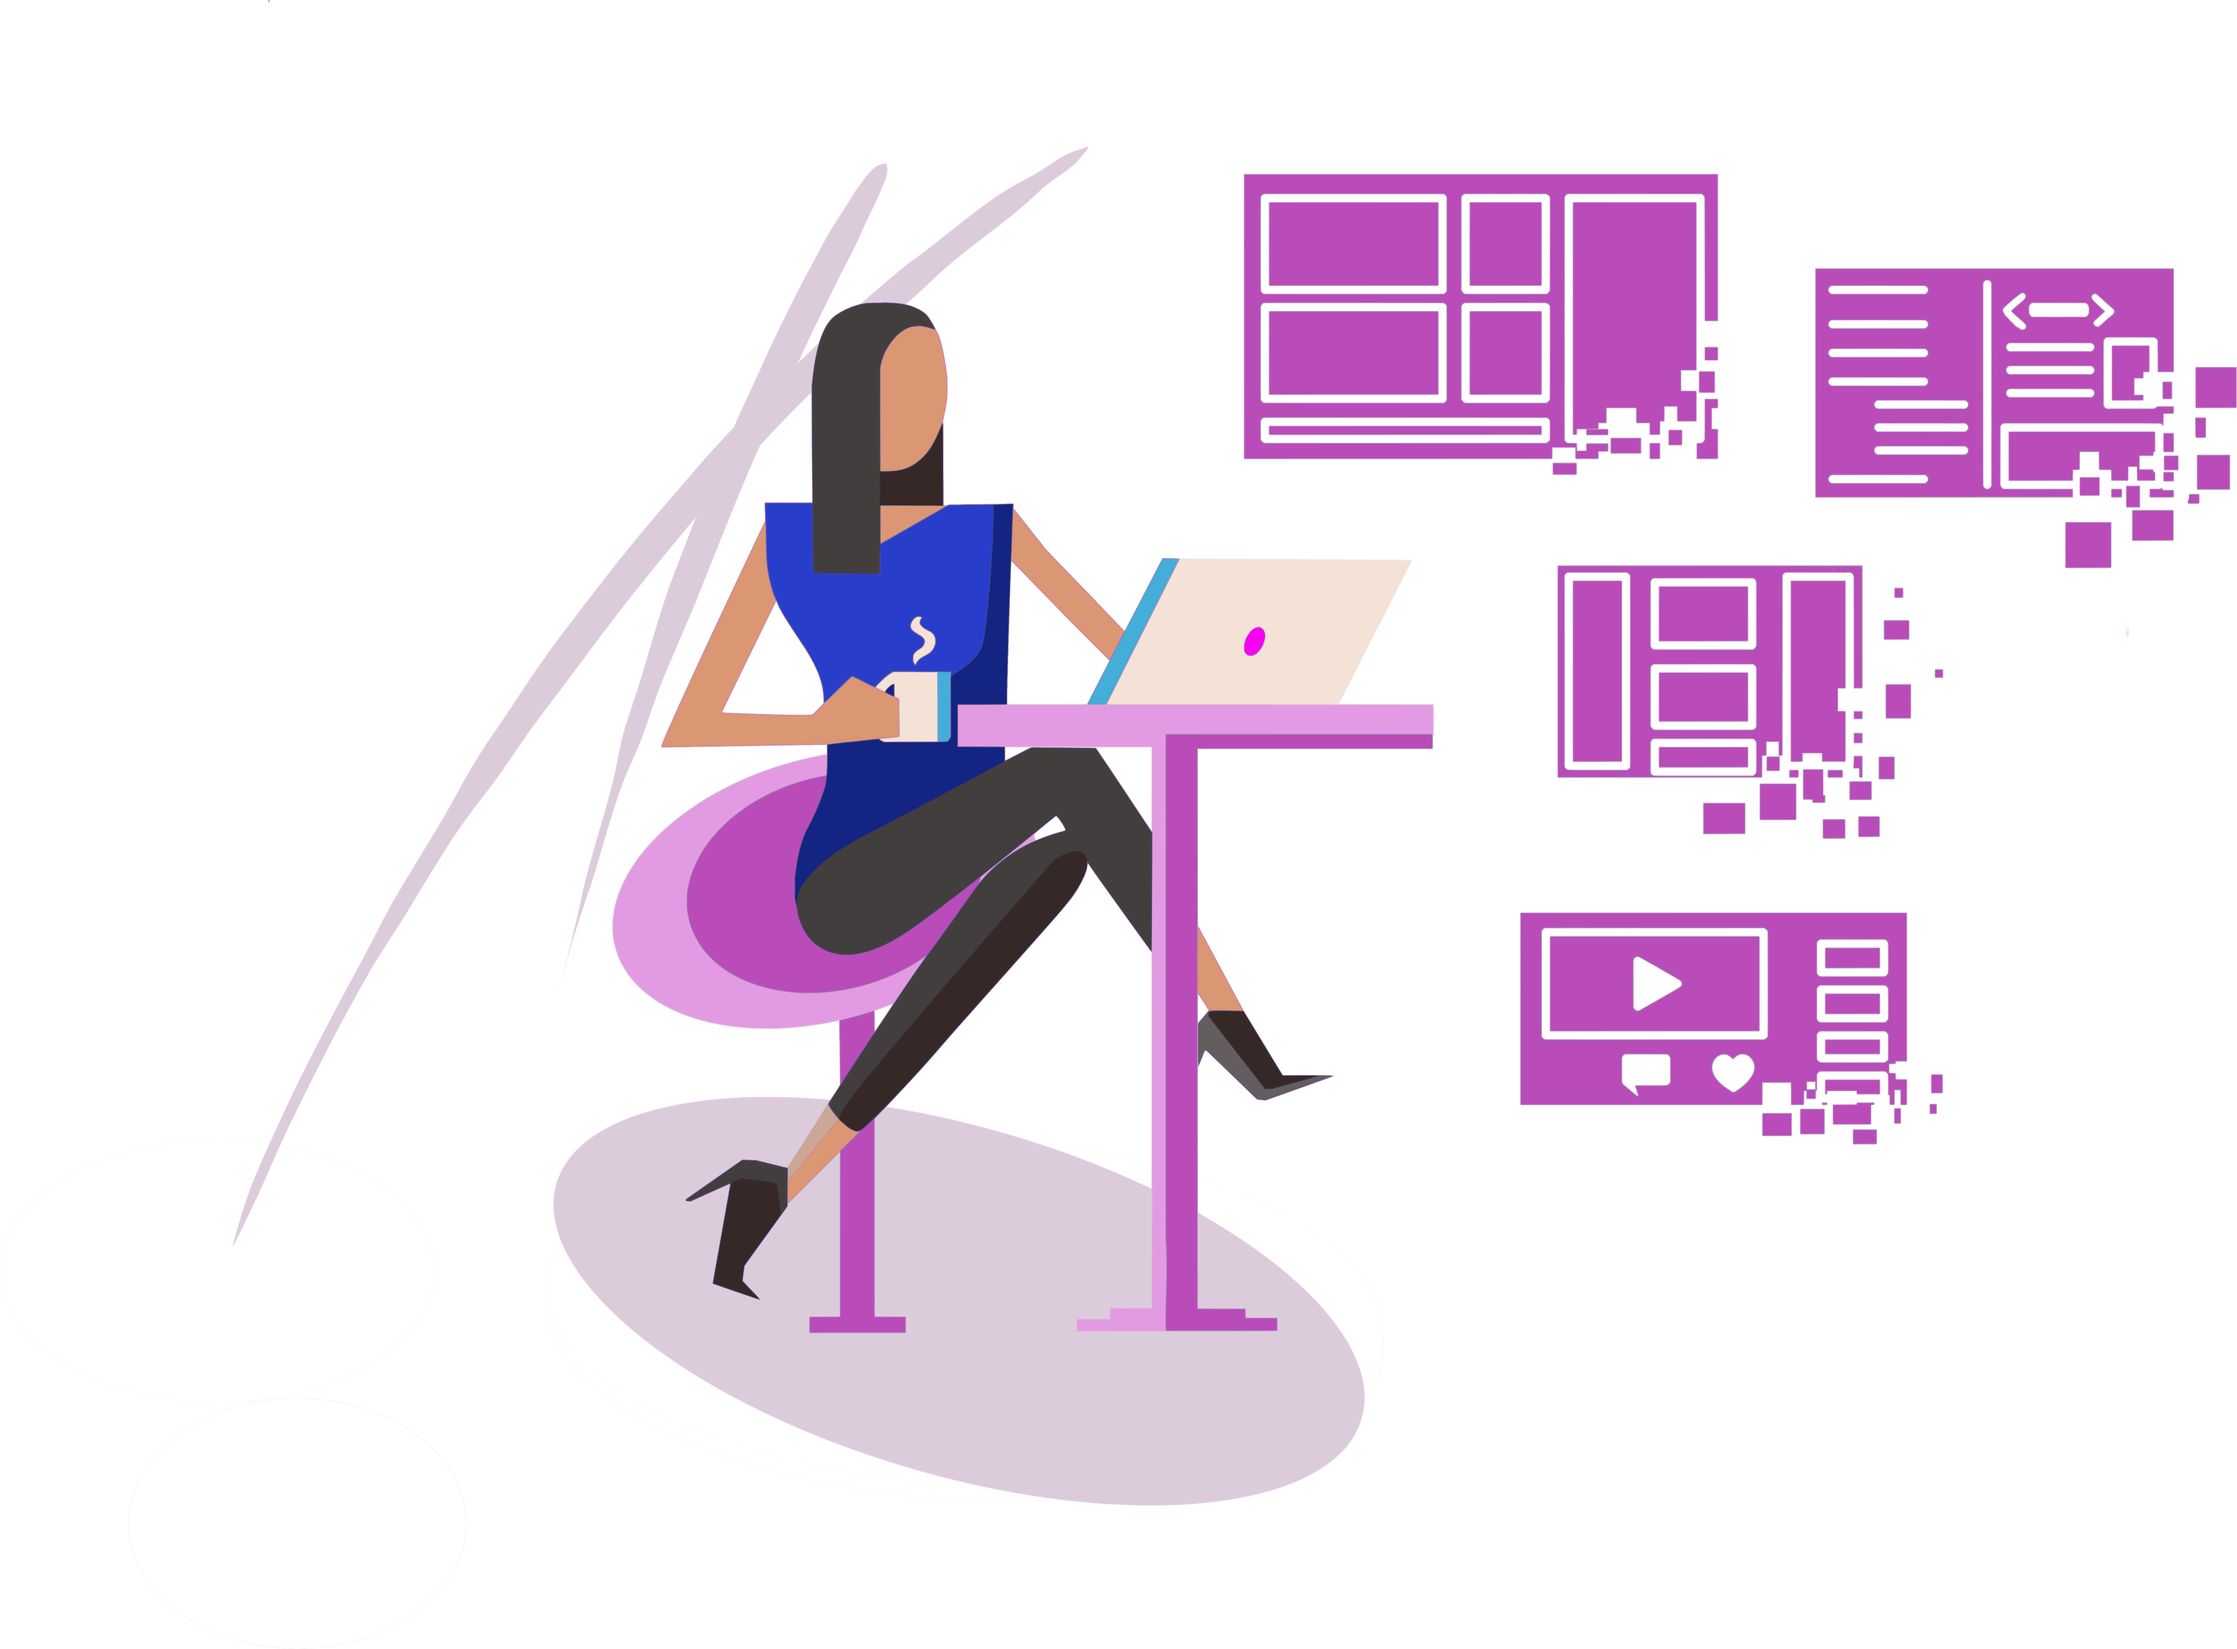
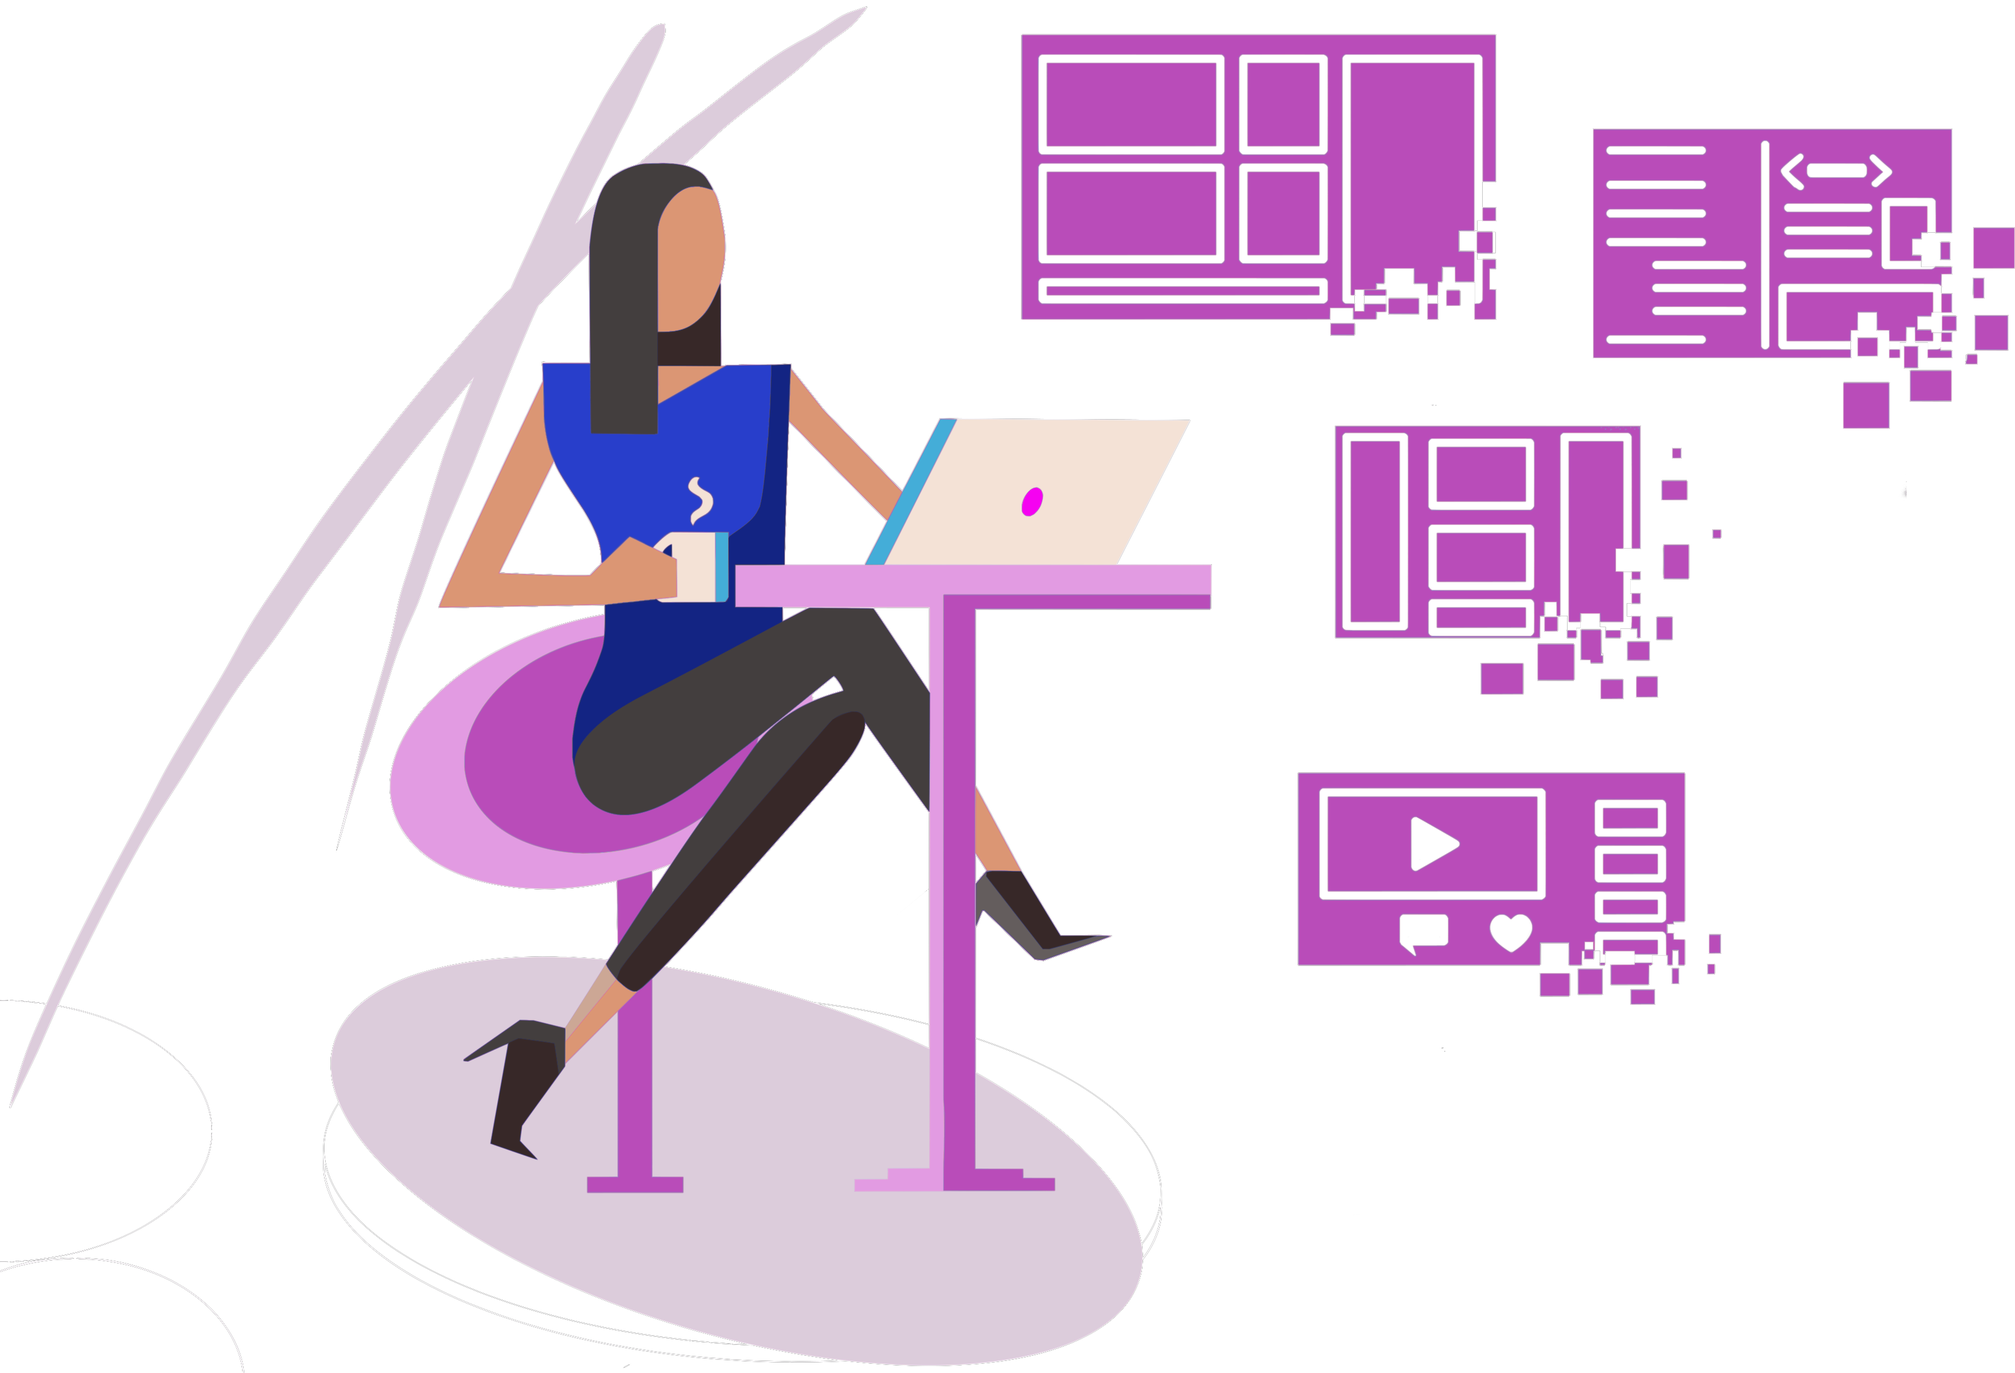
upload images

diff --git a/src/components/contact/Contacts.js b/src/components/contact/Contacts.js
@@ -2,7 +2,7 @@ import React, { useState } from 'react'
 import { Button, Col, Container,  Form,   Row } from 'react-bootstrap'
 import emailjs from '@emailjs/browser'
 import './Contact.css'
-import contactimg from "../../assets/img/pc final (2).png";
+import contactimg from "../../assets/img/pc final.png";
 
 
 function Contacts() {
